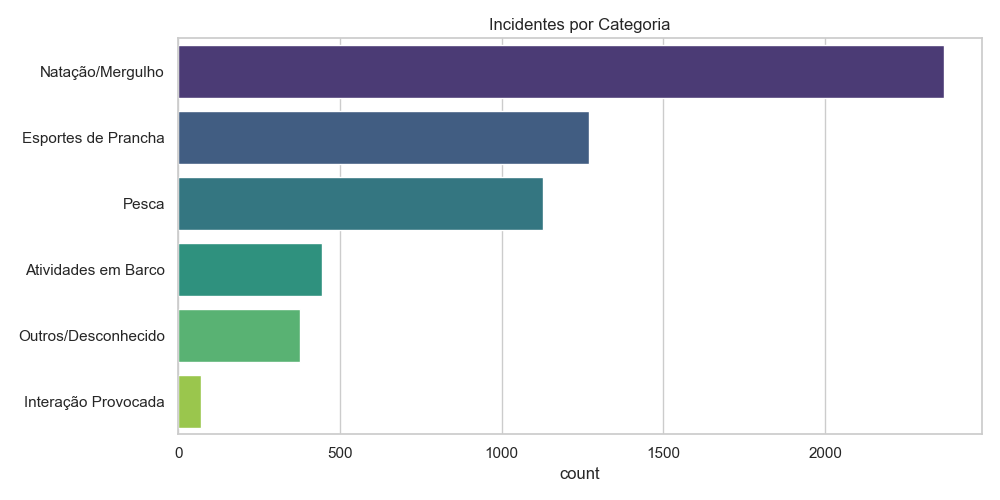
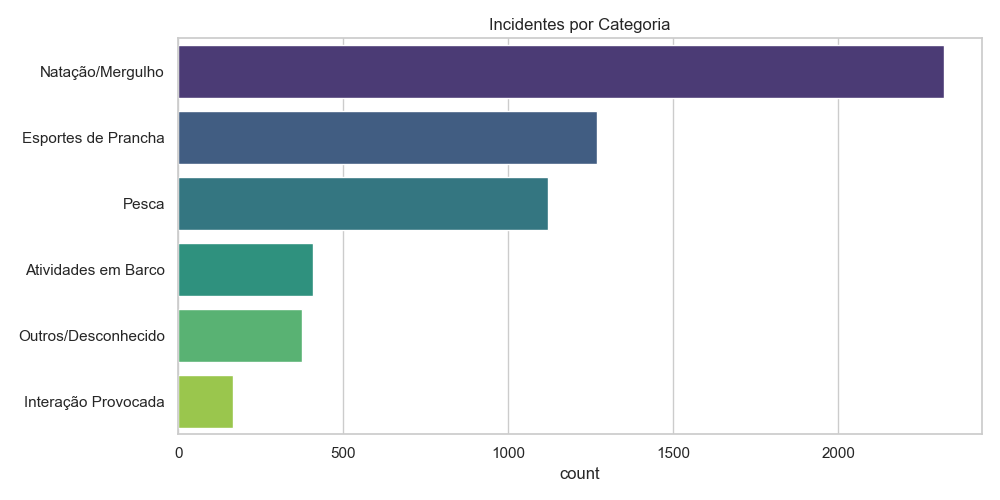
Update: Integration with Kaggle and data cleaning

diff --git a/Relatorio_Final_Visual.md b/Relatorio_Final_Visual.md
@@ -2,18 +2,18 @@
 # Relatório de Ataques de Tubarão
 
 ## Resumo Executivo
-Este relatório apresenta uma análise detalhada dos ataques de tubarão, com foco nas categorias de atividades, fatalidades, e a distribuição geográfica dos incidentes. Os dados revelam tendências preocupantes e áreas de alta incidência que requerem atenção.
+Este relatório analisa os dados de ataques de tubarão, destacando as categorias de atividades, fatalidades, os principais países afetados e um detalhamento geográfico das áreas mais impactadas. A análise temporal também é apresentada para entender as tendências ao longo dos anos.
 
 ## Análise Temporal
-A análise temporal dos ataques de tubarão mostra um aumento significativo nos últimos anos, indicando uma necessidade urgente de medidas de segurança e conscientização. 
+A análise temporal revela flutuações significativas no número de ataques ao longo dos anos, indicando possíveis correlações com fatores ambientais e comportamentais.
 ![Tendência Temporal](grafico_temporal.png)
 
 ## Análise por Atividade
-A distribuição dos ataques por atividade revela que a maioria dos incidentes ocorre durante atividades de natação e mergulho, seguidas por esportes de prancha e pesca.
+A distribuição por atividade mostra que a Natação/Mergulho é a atividade mais associada a ataques de tubarão, seguida por Esportes de Prancha e Pesca. Isso sugere que as atividades aquáticas populares podem estar correlacionadas com o aumento do risco de ataques.
 ![Distribuição por Atividade](grafico_categorias.png)
 
 ## Análise de Fatalidade
-A análise de fatalidades mostra que, embora a maioria dos ataques não resulte em morte, as atividades de natação e mergulho têm uma taxa de fatalidade alarmante.
+A análise de fatalidade indica que, embora a Natação/Mergulho tenha o maior número de ataques, a taxa de fatalidade é preocupante, especialmente em comparação com outras atividades. Isso destaca a necessidade de medidas de segurança adequadas.
 ![Fatalidade](grafico_fatalidade.png)
 
 ## Análise Top 3 Países
@@ -42,6 +42,9 @@ A análise de fatalidades mostra que, embora a maioria dos ataques não resulte 
 | Western Cape Province |    181 |
 | Eastern Cape Province |    150 |
 
-## Conclusões
-Os dados indicam que os ataques de tubarão estão se tornando mais frequentes, especialmente em áreas costeiras populares para atividades aquáticas. A Flórida, na USA, é a região mais afetada, seguida por áreas na Austrália e na África do Sul. É crucial implementar medidas de segurança e campanhas de conscientização para mitigar os riscos associados a essas atividades.
+## Conclusões Finais
+- A atividade de Natação/Mergulho apresenta o maior volume de ataques, com uma taxa significativa de fatalidades. Isso sugere a necessidade de campanhas de conscientização e segurança para nadadores e mergulhadores.
+- Os EUA são o país com o maior número de ataques, especialmente na Flórida, que deve ser um foco para medidas de segurança.
+- A Austrália e a África do Sul também apresentam números consideráveis, indicando que as áreas costeiras nesses países devem ser monitoradas e regulamentadas para minimizar os riscos.
+- A análise de tendências ao longo dos anos mostra flutuações que podem estar relacionadas a fatores ambientais, como mudanças na temperatura da água e na população de tubarões, que devem ser investigados para entender melhor os padrões de ataque.
 ```

diff --git a/relatorio_final.md b/relatorio_final.md
@@ -2,18 +2,18 @@
 # Relatório de Ataques de Tubarão
 
 ## Resumo Executivo
-Este relatório apresenta uma análise detalhada dos ataques de tubarão, com foco nas categorias de atividades, fatalidades, e a distribuição geográfica dos incidentes. Os dados revelam tendências preocupantes e áreas de alta incidência que requerem atenção.
+Este relatório analisa os dados de ataques de tubarão, destacando as categorias de atividades, fatalidades, os principais países afetados e um detalhamento geográfico das áreas mais impactadas. A análise temporal também é apresentada para entender as tendências ao longo dos anos.
 
 ## Análise Temporal
-A análise temporal dos ataques de tubarão mostra um aumento significativo nos últimos anos, indicando uma necessidade urgente de medidas de segurança e conscientização. 
+A análise temporal revela flutuações significativas no número de ataques ao longo dos anos, indicando possíveis correlações com fatores ambientais e comportamentais.
 ![Tendência Temporal](grafico_temporal.png)
 
 ## Análise por Atividade
-A distribuição dos ataques por atividade revela que a maioria dos incidentes ocorre durante atividades de natação e mergulho, seguidas por esportes de prancha e pesca.
+A distribuição por atividade mostra que a Natação/Mergulho é a atividade mais associada a ataques de tubarão, seguida por Esportes de Prancha e Pesca. Isso sugere que as atividades aquáticas populares podem estar correlacionadas com o aumento do risco de ataques.
 ![Distribuição por Atividade](grafico_categorias.png)
 
 ## Análise de Fatalidade
-A análise de fatalidades mostra que, embora a maioria dos ataques não resulte em morte, as atividades de natação e mergulho têm uma taxa de fatalidade alarmante.
+A análise de fatalidade indica que, embora a Natação/Mergulho tenha o maior número de ataques, a taxa de fatalidade é preocupante, especialmente em comparação com outras atividades. Isso destaca a necessidade de medidas de segurança adequadas.
 ![Fatalidade](grafico_fatalidade.png)
 
 ## Análise Top 3 Países
@@ -42,6 +42,9 @@ A análise de fatalidades mostra que, embora a maioria dos ataques não resulte 
 | Western Cape Province |    181 |
 | Eastern Cape Province |    150 |
 
-## Conclusões
-Os dados indicam que os ataques de tubarão estão se tornando mais frequentes, especialmente em áreas costeiras populares para atividades aquáticas. A Flórida, na USA, é a região mais afetada, seguida por áreas na Austrália e na África do Sul. É crucial implementar medidas de segurança e campanhas de conscientização para mitigar os riscos associados a essas atividades.
+## Conclusões Finais
+- A atividade de Natação/Mergulho apresenta o maior volume de ataques, com uma taxa significativa de fatalidades. Isso sugere a necessidade de campanhas de conscientização e segurança para nadadores e mergulhadores.
+- Os EUA são o país com o maior número de ataques, especialmente na Flórida, que deve ser um foco para medidas de segurança.
+- A Austrália e a África do Sul também apresentam números consideráveis, indicando que as áreas costeiras nesses países devem ser monitoradas e regulamentadas para minimizar os riscos.
+- A análise de tendências ao longo dos anos mostra flutuações que podem estar relacionadas a fatores ambientais, como mudanças na temperatura da água e na população de tubarões, que devem ser investigados para entender melhor os padrões de ataque.
 ```
